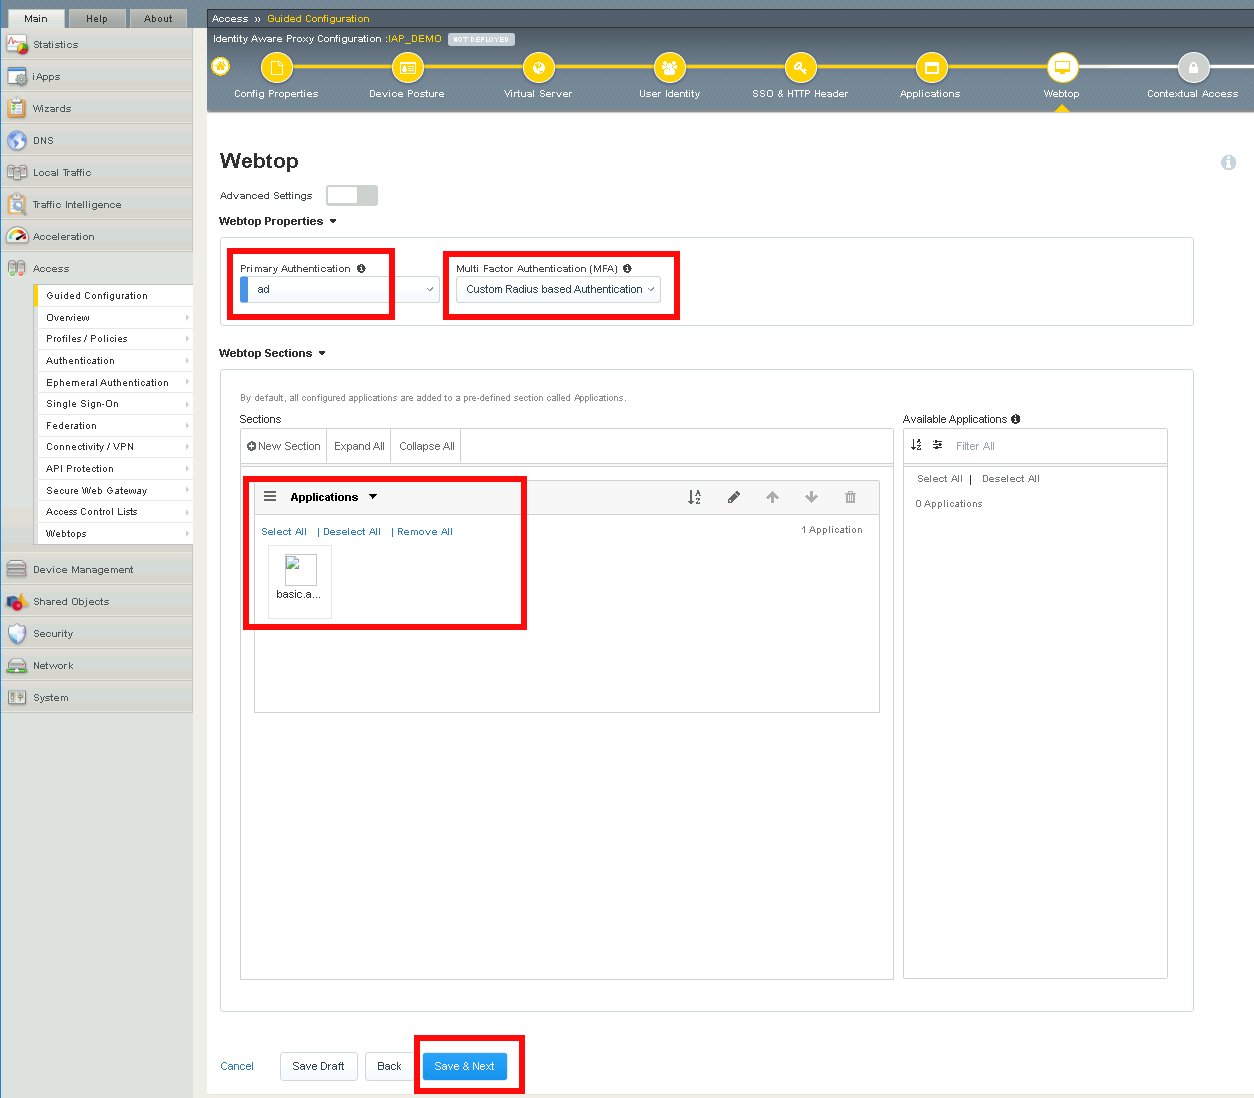
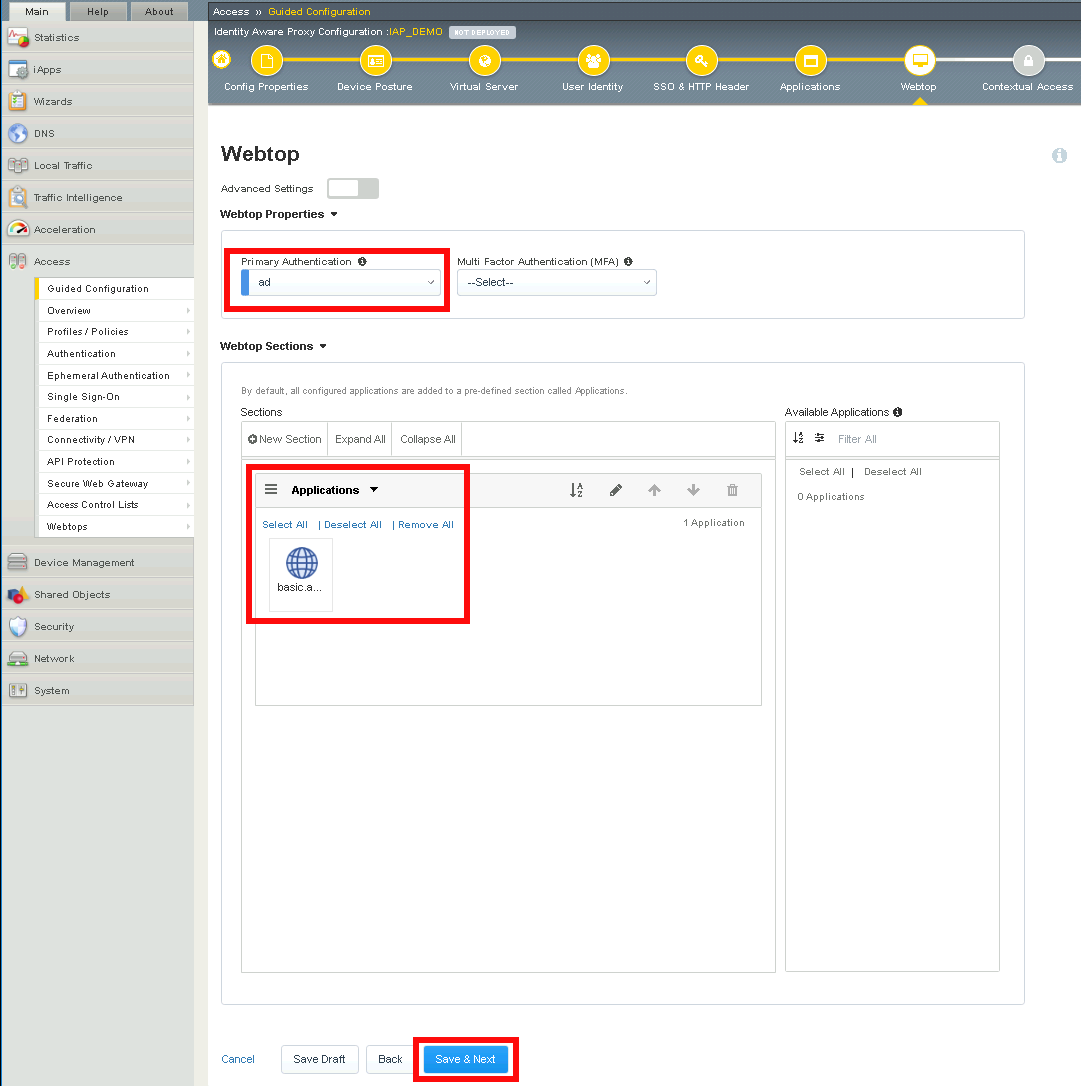
lab1 update v5

Changed region(s): [[0.0, 0.0, 1.0, 1.0], [0.2137, 0.942, 0.4884, 1.0]]

diff --git a/class2/module2/lab01.rst b/class2/module2/lab01.rst
@@ -1,7 +1,7 @@
 Lab1: Configure Identity Aware Proxy(16.0)
 ===========================================
 
-The 15.1 Zero Trust Architecture shifts many of the objects that would exist in a per-session policy to the per-request policy thereby creating a more secure authentication and authorization scheme. The authenticity of each request is further enhanced through the use of F5’s Access Guard agent installed on a client.  This agent provides a PKI signed report of the posture assessment performed on the client real-time rather than the historical way plug-ins reported status. Previously, after a user connected to an application they would experience a delay in access as the agent performed the posture assessment to provide an unsigned report to the BIG-IP. 
+The Zero Trust Architecture shifts many of the objects that would exist in a per-session policy to the per-request policy thereby creating a more secure authentication and authorization scheme. The authenticity of each request is further enhanced through the use of F5’s Access Guard agent installed on a client.  This agent provides a PKI signed report of the posture assessment performed on the client real-time rather than the historical way plug-ins reported status. Previously, after a user connected to an application they would experience a delay in access as the agent performed the posture assessment to provide an unsigned report to the BIG-IP. 
 
 Topics Covered
 ----------------
@@ -152,7 +152,6 @@ Task - Configure Active Directory AAA
 
 #. Select the **memberOf** in the Required Attributes box 
 #. Click **Save**
-#. Click **Save & Next**
 
    |image16|
 
@@ -174,7 +173,7 @@ Task - Configure a RADIUS AAA Server
 
    |image18|
 
-#. Select **Custom Radius Based**
+#. Double click **Custom Radius Based**
 
    |image19|
 
@@ -189,7 +188,7 @@ Task - Configure a RADIUS AAA Server
 
    |image21|
 
-#. Verify Custom RADIUS based Authentication appears
+#. Verify **Custom RADIUS based Authentication** appears
 #. Click **Save & Next**
 
    |image22|
@@ -288,7 +287,7 @@ Task - Create Contextual Access for basic.acme.com
 
    |image32|
 
-#. Check **Enable Additional Checks**
+#. Check **Additional Checks**
 #. For the Default Fallback rule, select **Step Up** from the dropdown box under **Match Action**
 #. Select **Custom Radius based Authentication (MFA)** from the Step Up Authentication box
 #. Click **Save**
@@ -296,6 +295,7 @@ Task - Create Contextual Access for basic.acme.com
    |image33|
 
 #. Verify **basic.acme.com** Contextual Access
+#. Click **Save & Next**
 
    |image33-2|
 
@@ -489,6 +489,7 @@ Task - Enable Windows Firewall
 .. |image31| image:: media/lab01/image031.png
 .. |image32| image:: media/lab01/image032.png
 .. |image33| image:: media/lab01/image033.png
+.. |image33-2| image:: media/lab01/image033-2.png
 .. |image36| image:: media/lab01/image036.png
 .. |image37| image:: media/lab01/image037.png
 .. |image38| image:: media/lab01/image038.png
